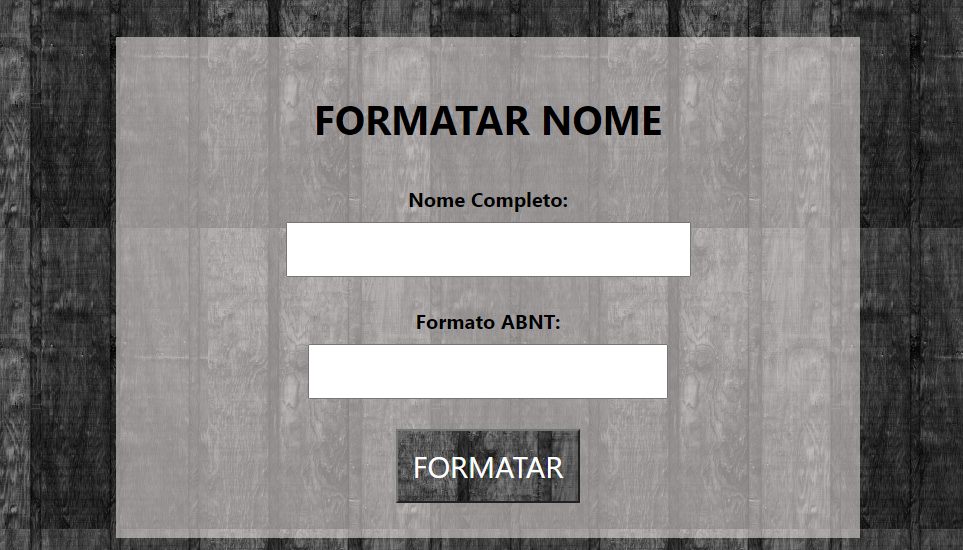
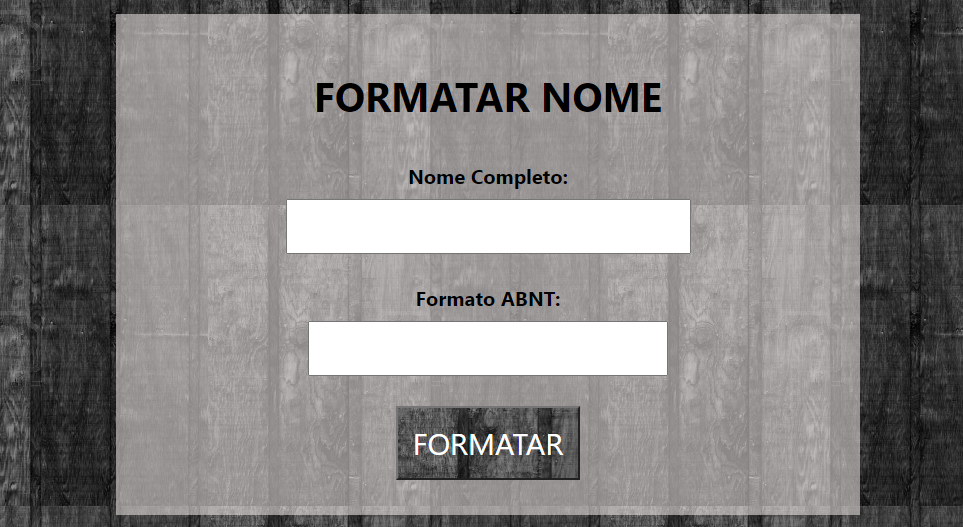
Editando EasyLife

diff --git a/Easy Life/css/estilo.css b/Easy Life/css/estilo.css
@@ -5,9 +5,15 @@ body {
     text-align: center;
     margin-left: auto;
     margin-right: auto;
-    background-image: url('../fotos/fundoMenu.jpg');
+    background-image: url('../fotos/fundo.jpg');
     margin-block-start: 1.67em;
     margin-top: 100px;
+}
+
+.fundoMenu {
+    background-color: rgb(255 255 255 / 71%);
+    padding: 60px 0px 60px 0px;
+    margin: 0px 360px 0px 360px;
 }
 
 hgroup h1 {
@@ -15,9 +21,6 @@ hgroup h1 {
     color: #01b3bc;
 }
 
-nav h1 {
-    font-size: 20px;
-}
 
 input#concluir {
     background-color: #01b3bc;
@@ -30,7 +33,7 @@ div#sobreExames {
     margin-left: 360px;
     margin-right: 50px;
     width: 50%;
-    background-color: white;
+    background-color: #ffffff85;
     padding-left: 30px;
     padding-right: 30px;
     padding-top: 30px;
@@ -60,14 +63,14 @@ div#menuPrincipal h1{
 
 .titulo-img {
     position: absolute;
-    margin-left: 39%;
+    margin-left: 11%;
     margin-right: auto;
     width: 120px;
 }
 
 .titulo-nome {
             border: 0px solid;
-            margin-left: 47%;
+            margin-left: 42%;
             margin-right: auto;
             width: 200px;
             height: 100px;
@@ -78,6 +81,7 @@ div#menuPrincipal h1{
                 font-size: xxx-large;
                 margin-top: 21px;
                 margin-bottom: 0px;
+                color: #01b3bc;
 }
 
 .titulo-botao1 {
@@ -89,6 +93,12 @@ div#menuPrincipal h1{
     text-decoration: none;
     display: inline-block;
     font-size: 16px;
+    border-radius: 27px;
+}
+
+.titulo-botao1:hover {
+    background-color: #005c61; 
+    color: white;
 }
 
 .titulo-botao2 {
@@ -100,6 +110,12 @@ div#menuPrincipal h1{
     text-decoration: none;
     display: inline-block;
     font-size: 16px;
+    border-radius: 27px;
+}
+
+.titulo-botao2:hover {
+    background-color: #004246; 
+    color: white;
 }
 
 .titulo-botao3 {
@@ -111,13 +127,19 @@ div#menuPrincipal h1{
     text-decoration: none;
     display: inline-block;
     font-size: 16px;
+    border-radius: 27px;
+}
+
+.titulo-botao3:hover {
+    background-color: #1d755b;
+    color: white;
 }
 
 div#marcacao {
     margin-left: 360px;
     margin-right: 50px;
     width: 50%;
-    background-color: white;
+    background-color: #ffffffb4;
     padding-left: 30px;
     padding-right: 30px;
     padding-top: 30px;

diff --git a/Easy Life/menu.html b/Easy Life/menu.html
@@ -10,8 +10,7 @@
 
 <body>
 
-    <hgroup>
-        <div id="container">
+        <div class="fundoMenu">
             <div class="titulo-img">
                 <img id="saude" src="fotos/saude.png" ;>
             </div>
@@ -19,24 +18,25 @@
                 <h1 class="titulo-h1nome">EasyLife</h1>
             </div>
 
-        </div>
+        
 
-        <h2>Olá, marque seus exames por aqui</h2>
+        <h2>Olá,</h2>
+        <h2>marque seus exames por aqui.</h2>
 
-    </hgroup>
-
-    <nav id="menu">
+        <br>
         
         <div>
-        
-            <li class="titulo-botao2">
-                <a href="index.html">Marcar Exame</a></li>
 
-            <li class="titulo-botao3">
-                <a href="exames.html">Sobre os exames</a></li>
+                <a href="index.html">
+                    <li class="titulo-botao2">Marcar Exame</li></a>
+
+
+                <a href="exames.html">
+                    <li class="titulo-botao3">Sobre os exames</li></a>
+
         </div>
 
-    </nav>
+    </div>
 
 </body>
 

diff --git a/Easy Life/exames.html b/Easy Life/exames.html
@@ -10,7 +10,9 @@
 </head>
 <body>
     
-    <li class="titulo-botao1" ><a href="menu.html">Voltar ao Menu</a></li>
+    <a href="menu.html">
+        <li class="titulo-botao1">Voltar ao Menu</li></a>
+
 
     <div id="sobreExames">
 

diff --git a/Easy Life/index.html b/Easy Life/index.html
@@ -24,7 +24,8 @@
 
 <body>
 
-    <li class="titulo-botao1" ><a href="menu.html">Voltar ao Menu</a></li>
+    <a href="menu.html">
+      <li class="titulo-botao1">Voltar ao Menu</li></a>
 
 
     <div id="marcacao">
